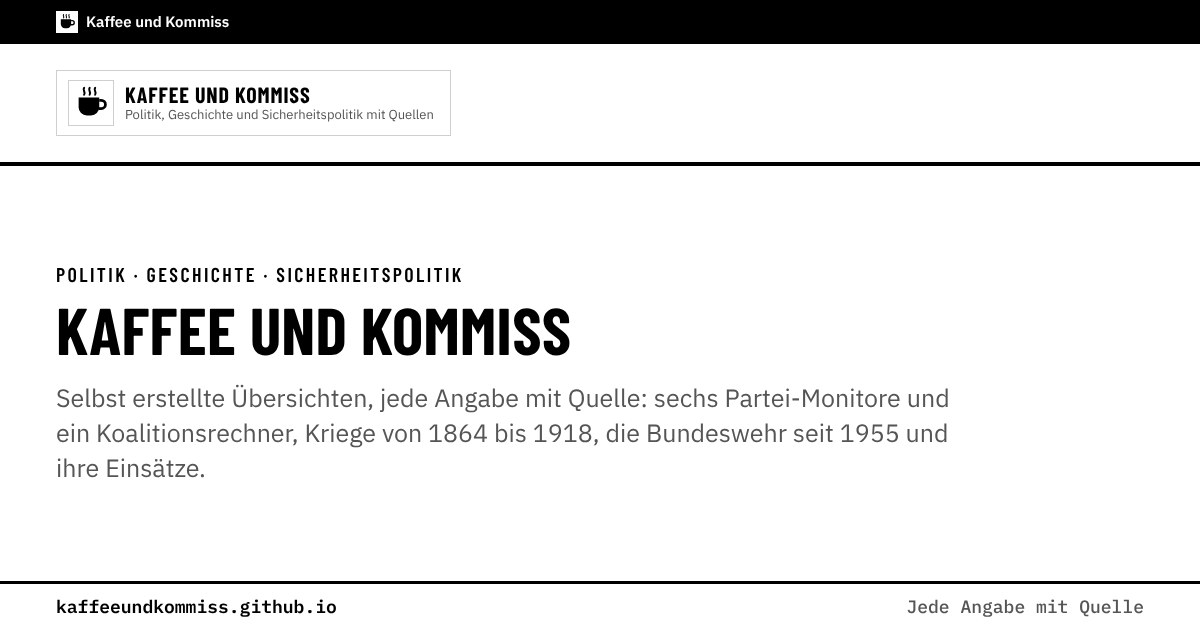
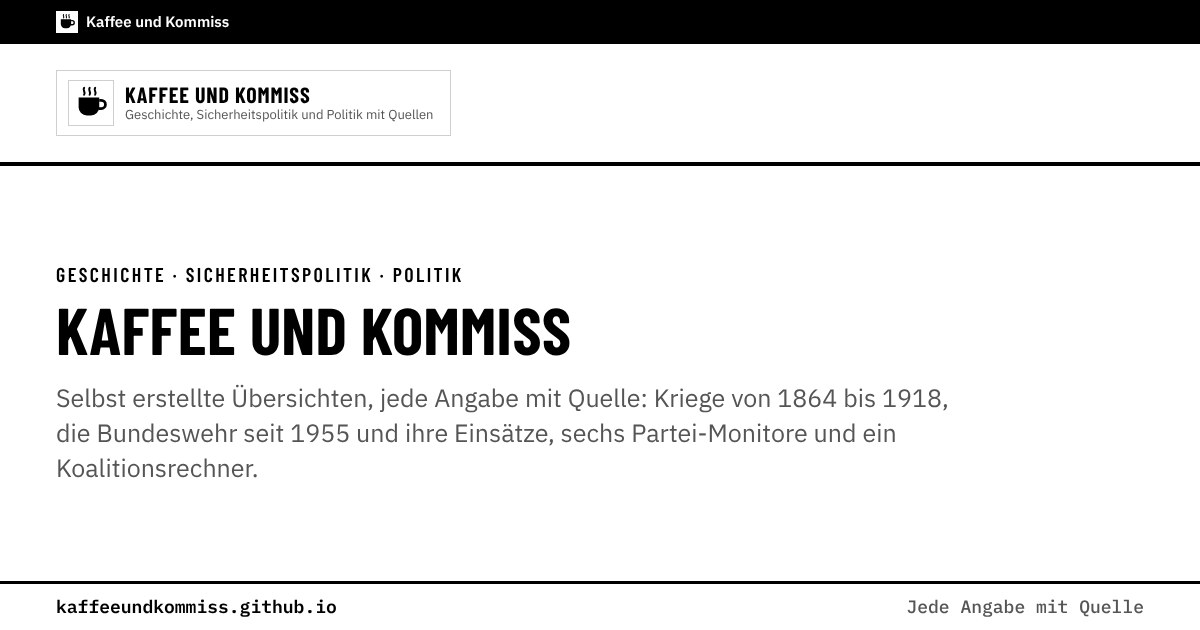
Startseite: Bereiche in Reihenfolge der Kopfleiste (Geschichte, Sicherheitspolitik, Politik)
Claude-Session: https://claude.ai/code/session_01AuP7hH9RbmTeUs825k7Mf5

Changed region(s): [[0.0308, 0.6032, 0.8017, 0.754], [0.0925, 0.1508, 0.3392, 0.2111], [0.0308, 0.4222, 0.3392, 0.4524]]

diff --git a/index.html b/index.html
@@ -4,21 +4,21 @@
 <meta charset="utf-8">
 <meta name="viewport" content="width=device-width, initial-scale=1">
 <title>Kaffee und Kommiss</title>
-<meta name="description" content="Selbst erstellte Übersichten zu Politik, Geschichte und Sicherheitspolitik, jede Angabe mit Quelle.">
+<meta name="description" content="Selbst erstellte Übersichten zu Geschichte, Sicherheitspolitik und Politik, jede Angabe mit Quelle.">
 <link rel="canonical" href="https://kaffeeundkommiss.github.io/">
 <meta property="og:type" content="website">
 <meta property="og:locale" content="de_DE">
 <meta property="og:site_name" content="Kaffee und Kommiss">
 <meta property="og:title" content="Kaffee und Kommiss">
-<meta property="og:description" content="Selbst erstellte Übersichten zu Politik, Geschichte und Sicherheitspolitik, jede Angabe mit Quelle.">
+<meta property="og:description" content="Selbst erstellte Übersichten zu Geschichte, Sicherheitspolitik und Politik, jede Angabe mit Quelle.">
 <meta property="og:url" content="https://kaffeeundkommiss.github.io/">
 <!-- Vorschau für Linkvorschauen, erzeugt mit werkzeuge/vorschau.js -->
-<meta property="og:image" content="https://kaffeeundkommiss.github.io/vorschau/start.jpg?v=0496a335">
+<meta property="og:image" content="https://kaffeeundkommiss.github.io/vorschau/start.jpg?v=20bdd6ed">
 <meta property="og:image:width" content="1200">
 <meta property="og:image:height" content="630">
 <meta property="og:image:alt" content="Kaffee und Kommiss">
 <meta name="twitter:card" content="summary_large_image">
-<meta name="twitter:image" content="https://kaffeeundkommiss.github.io/vorschau/start.jpg?v=0496a335">
+<meta name="twitter:image" content="https://kaffeeundkommiss.github.io/vorschau/start.jpg?v=20bdd6ed">
 <link rel="icon" href="favicon.svg" type="image/svg+xml">
 <link rel="icon" href="favicon-32.png" type="image/png" sizes="32x32">
 <link rel="apple-touch-icon" sizes="180x180" href="apple-touch-icon.png?v=2">
@@ -42,7 +42,7 @@
       <img class="logo" src="favicon.svg" alt="" width="44" height="44">
       <div>
         <div class="kk-name">Kaffee und Kommiss</div>
-        <div class="kk-unter">Politik, Geschichte und Sicherheitspolitik mit Quellen</div>
+        <div class="kk-unter">Geschichte, Sicherheitspolitik und Politik mit Quellen</div>
       </div>
     </div>
   </div>
@@ -56,13 +56,6 @@
   </section>
 
   <section class="projekte" aria-label="Projekte">
-    <a class="projekt kk-b-poli" href="https://kaffeeundkommiss.github.io/politik/">
-      <span class="band"><img src="icons/politik.svg" alt="" width="40" height="40"></span>
-      <span class="rubrik">Politik</span>
-      <span class="titel">Partei-Monitore</span>
-      <span class="text">Aktuelle Umfragewerte von CDU/CSU, AfD, SPD, Grünen, Linken und FDP für Bundestag und Landtagswahlen, dazu Wahlergebnisse seit 1998, Daten zur Partei und ein Koalitionsrechner.</span>
-      <span class="hinweis">Wird wöchentlich aktualisiert</span>
-    </a>
     <a class="projekt kk-b-gesch" href="https://kaffeeundkommiss.github.io/geschichte/">
       <span class="band"><img src="icons/geschichte.svg" alt="" width="40" height="40"></span>
       <span class="rubrik">Geschichte</span>
@@ -76,6 +69,13 @@
       <span class="titel">Die Bundeswehr: Einsätze und Stationierung</span>
       <span class="text">Die Bundeswehr seit 1955 im Überblick, dazu Somalia 1993/94, Kosovo seit 1999, Afghanistan 2001–2021, Mali 2013–2023 und die Stationierung in Litauen seit 2025: Kennzahlen, Karten, Zeitleisten.</span>
       <span class="hinweis">Mit Karten und Zeitleiste</span>
+    </a>
+    <a class="projekt kk-b-poli" href="https://kaffeeundkommiss.github.io/politik/">
+      <span class="band"><img src="icons/politik.svg" alt="" width="40" height="40"></span>
+      <span class="rubrik">Politik</span>
+      <span class="titel">Partei-Monitore</span>
+      <span class="text">Aktuelle Umfragewerte von CDU/CSU, AfD, SPD, Grünen, Linken und FDP für Bundestag und Landtagswahlen, dazu Wahlergebnisse seit 1998, Daten zur Partei und ein Koalitionsrechner.</span>
+      <span class="hinweis">Wird wöchentlich aktualisiert</span>
     </a>
   </section>
 </main>
